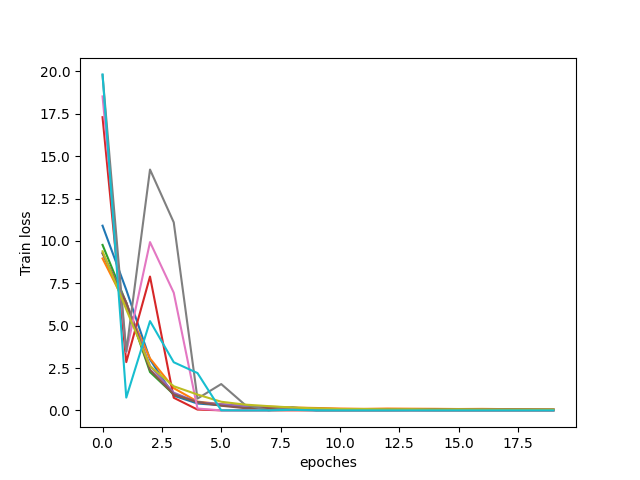
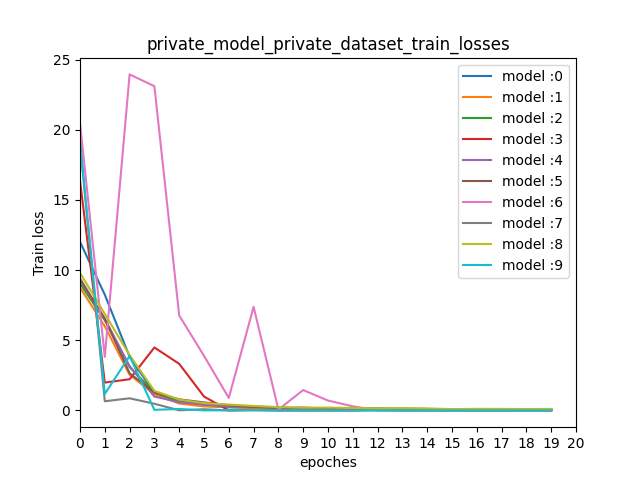
update

diff --git a/Collaborative_step.py b/Collaborative_step.py
@@ -3,6 +3,7 @@ from  collaborative_private_model_femnist_balanced import collaborative_private_
 from  collaborative_train_balanced_mnist import collaborative_private_model_mnist_train
 from collaborative_model_femnist_Accuracy import test_accuracy_collaborativemodel
 import matplotlib.pyplot as plt
+from matplotlib.pyplot import MultipleLocator #从pyplot导入MultipleLocator类，这个类用于设置刻度间隔
 
 def transpose( matrix):
     new_matrix = []
@@ -23,12 +24,19 @@ if __name__ == '__main__':
         collaborative_private_model_mnist_train(args)
         collaborative_private_model_femnist_train(args)
         accuracy.append(eachround_accuracy)
-    accuracy = transpose(transpose)
+    accuracy = transpose(accuracy)
+
     for i, val in enumerate(accuracy):
         print(val)
-        plt.plot(range(len(val)), val)
+        plt.plot(range(len(val)), val,label='model :'+str(i))
+    plt.legend(loc='best')
+    plt.title('communication_round_with_accuracy_on_femnist')
     plt.xlabel('Communication roudn')
     plt.ylabel('Accuracy on FEMNIST')
+    x_major_locator = MultipleLocator(1)# 把x轴的刻度间隔设置为1，并存在变量里
+    ax = plt.gca()# ax为两条坐标轴的实例
+    ax.xaxis.set_major_locator(x_major_locator)# 把x轴的主刻度设置为1的倍数
+    plt.xlim(0, args.Communicationepoch)
     plt.savefig('Src/Figure/communication_round_with_accuracy_on_femnist.png')
     plt.show()
     print('End Private Training')

diff --git a/collaborative_private_model_femnist_balanced.py b/collaborative_private_model_femnist_balanced.py
@@ -46,6 +46,9 @@ def collaborative_private_model_femnist_train(args):
     modelsindex = ["2_layer_CNN", "3_layer_CNN"]
     model_list, model_type_list = get_model_list(args.Collaborativeurl, modelsindex, models)
 
+
+    print('Begin Private Training')
+
     private_model_private_dataset_train_losses = []
     for n, model in enumerate(model_list):
         print('train Local Model {} on Private Dataset'.format(n))
@@ -60,8 +63,7 @@ def collaborative_private_model_femnist_train(args):
         trainloader = DataLoader(DatasetSplit(train_dataset, list(user_groups[n])), batch_size=64, shuffle=True)
         criterion = nn.NLLLoss().to(device)
         train_epoch_losses = []
-        print('Begin Private Training')
-        for epoch in range(args.epoch):
+        for epoch in range(args.Communication_private_epoch):
             train_batch_losses = []
             for batch_idx, (images, labels) in enumerate(trainloader):
                 images, labels = images.to(device), labels.to(device)
@@ -84,6 +86,7 @@ def collaborative_private_model_femnist_train(args):
     for i, val in enumerate(private_model_private_dataset_train_losses):
         print(val)
         plt.plot(range(len(val)), val)
+    plt.title('collaborative_private_model_private_dataset_train_losses')
     plt.xlabel('epoches')
     plt.ylabel('Train loss')
     plt.savefig('Src/Figure/collaborative_private_model_private_dataset_train_losses.png')

diff --git a/data_utils.py b/data_utils.py
@@ -132,15 +132,33 @@ def get_private_dataset_balanced(args):
     return  data_train,data_test
 
 import  numpy as np
+import os
+from option import args_parser
+
+
 
 def FEMNIST_iid(dataset,num_users):
-    num_item = int(len(dataset)/num_users)
-    num_item = 20 # 用于达到作者目的！
-    dict_users, all_idxs = {},[i for i in range(len(dataset))]
-    for i in range(num_users):
-        dict_users[i] = set(np.random.choice(all_idxs,num_item,replace=False))
-        all_idxs = list(set(all_idxs)-dict_users[i])
-    return dict_users
+    args = args_parser()
+    if os.path.exists(args.private_dataset_index):
+        print('private_dataset_index exist ~ ')
+        f  = open(args.private_dataset_index,'r')
+        temp = f.read()
+        dict_users =eval(temp)
+        return dict_users
+    else:
+        print('create private_dataset_index ~ ')
+        num_item = int(len(dataset) / num_users)
+        num_item = 20  # 用于达到作者目的！
+        dict_users, all_idxs = {}, [i for i in range(len(dataset))]
+        for i in range(num_users):
+            dict_users[i] = set(np.random.choice(all_idxs, num_item, replace=False))
+            all_idxs = list(set(all_idxs) - dict_users[i])
+        f = open(args.private_dataset_index,'w')
+        f.write(str(dict_users))
+        f.close()
+        return dict_users
+
+
 
 def MNIST_random(dataset,epochs):
     num_item = 5000

diff --git a/option.py b/option.py
@@ -16,6 +16,9 @@ def args_parser():
     parser.add_argument('--initialurl',type=str,default='Src\Model',help='initial url for saving initial models')
     parser.add_argument('--continue_epoch',type=int,default=10,help='epoch for continuing traning on pretrained model on mnist')
 
+    # data_utils
+    parser.add_argument('--private_dataset_index',type=str,default='Src/private_dataset_index.txt',help='in order to fix the private dataset,beacuse each client has only a few of dataset')
+
     # private_model_femnist_balanced
     parser.add_argument('--privateepoch',type=int,default=20,help='training epoch')
     parser.add_argument('--private_dataset',type=str,default='FEMNIST',help='private dataset for each client')
@@ -28,10 +31,11 @@ def args_parser():
     parser.add_argument('--collaborative_epoch',type=int,default=3,help='collaborative_epoch for train on public mnist')
 
     # Collaborative_step
-    parser.add_argument('--Communicationepoch',type=int,default=3,help='Collaorative epoch in Step3')
+    parser.add_argument('--Communicationepoch',type=int,default=10,help='Collaobrative epoch in Step3')
 
+    # collaborative_private_model_femnist_balanced
+    parser.add_argument('--Communication_private_epoch',type=int,default=10,help='Local private training during colaboratiive time')
 
     args = parser.parse_args()
-
 
     return args

diff --git a/collaborative_train_balanced_mnist.py b/collaborative_train_balanced_mnist.py
@@ -5,21 +5,7 @@ import torch
 from torch.utils.data import DataLoader,Dataset
 from torch import nn
 import matplotlib.pyplot as plt
-
-
-def get_model_list(url,modelsindex,models):
-    model_list = []
-    model_type_list = []
-    filePath = url
-    for root, dirs, files in os.walk(filePath, topdown=False):
-        for name in files:
-            # print(os.path.join(root, name))
-            # print(name[name.find('Type')+4])
-            model_type_list.append(int(name[name.find('Type')+4]))
-            net = models[modelsindex[int(name[name.find('Type')+4])]]()
-            net.load_state_dict(torch.load(os.path.join(root, name)))
-            model_list.append(net)
-    return model_list,model_type_list
+from utils import get_model_list
 
 class DatasetSplit(Dataset):
     """
@@ -108,6 +94,7 @@ def collaborative_private_model_mnist_train(args):
     plt.figure()
     for index in range(len(train_loss)):
         plt.plot(range(len(train_loss[index])), train_loss[index])
+    plt.title('collaborative_train_losses')
     plt.xlabel('epoches')
     plt.ylabel('Train loss')
     plt.savefig('Src/Figure/collaborative_train_losses.png')

diff --git a/private_model_femnist_balanced.py b/private_model_femnist_balanced.py
@@ -6,6 +6,7 @@ from torch.utils.data import DataLoader,Dataset
 from torch import nn
 import matplotlib.pyplot as plt
 from utils import get_model_list
+from matplotlib.pyplot import MultipleLocator #从pyplot导入MultipleLocator类，这个类用于设置刻度间隔
 
 class DatasetSplit(Dataset):
     """
@@ -73,9 +74,15 @@ def private_dataset_train(args):
     plt.figure()
     for i,val in enumerate(private_model_private_dataset_train_losses):
         print(val)
-        plt.plot(range(len(val)),val)
+        plt.plot(range(len(val)),val,label='model :'+str(i))
+    plt.legend(loc='best')
+    plt.title('private_model_private_dataset_train_losses')
     plt.xlabel('epoches')
     plt.ylabel('Train loss')
+    x_major_locator = MultipleLocator(1)# 把x轴的刻度间隔设置为1，并存在变量里
+    ax = plt.gca()# ax为两条坐标轴的实例
+    ax.xaxis.set_major_locator(x_major_locator)# 把x轴的主刻度设置为1的倍数
+    plt.xlim(0, args.privateepoch)
     plt.savefig('Src/Figure/private_model_private_dataset_train_losses.png')
     plt.show()
     print('End Private Training')

diff --git a/demo.py b/demo.py
@@ -187,15 +187,25 @@ import matplotlib.pyplot as plt
 
 # 列出重命名后的目录
 
-def transpose( matrix):
-    new_matrix = []
-    for i in range(len(matrix[0])):
-        matrix1 = []
-        for j in range(len(matrix)):
-            matrix1.append(matrix[j][i])
-        new_matrix.append(matrix1)
-    return new_matrix
+# def transpose( matrix):
+#     new_matrix = []
+#     for i in range(len(matrix[0])):
+#         matrix1 = []
+#         for j in range(len(matrix)):
+#             matrix1.append(matrix[j][i])
+#         new_matrix.append(matrix1)
+#     return new_matrix
+#
+# marix=[[1,1,1,1],[2,2,2,2],[3,3,3,3]]
+# print(marix)
+# print(transpose(marix)
+#
+# )
 
-marix=[[1,1,1,1],[2,2,2,2],[3,3,3,3]]
-print(marix)
-print(transpose(marix))
+from  data_utils import  get_private_dataset_balanced,FEMNIST_iid
+
+from option import args_parser
+if __name__ == '__main__':
+    args = args_parser()
+    train_dataset, test_dataset = get_private_dataset_balanced(args)
+    user_groups = FEMNIST_iid(train_dataset, args.user_number)

diff --git a/README.md b/README.md
@@ -216,3 +216,78 @@ end
 |8| 0.8822916666666667|
 |9| 0.9177083333333333|
 
+
+### collaborative_train_balanced_mnist.py
+|  Parametes   | default value  | Options| Explanation
+|  ----  | ----  |----  |----  |
+| gpu  | 1 |0，1 |choose to use GPU or CPU |
+| dataset  | 'mnist' |'mnist' |name of dataset |
+| private_dataset  | 'FEMNIST' |'FEMNIST' |name of private dataset |
+| Collaborativeurl  | 'Src\CollaborativeModel' |String  |place to save the Collaborative model |
+| privateurl  | 'Src\PrivateModel' |String  |place to save the private model which means continue train....... |
+|new_collaborative_training|True|True,False|whether train model from initial condition|
+| collaborative_epoch  | 5 |int number |number of epoch to collaborative train on Public|
+| lr  | 0.01 |float number |learning rate |
+| optimizer  | 'sgd' |'sgd','adam'|type of optimizer |
+
+
+|  Class name   | Explanation
+|  ---- |----  |
+| DatasetSplit  |用于切割FEMNIST根据对应的索引|
+
+
+|  Function name   | Input Parameters  | Output Parameters| Explanation
+|  ----  | ----  |----  |----  |
+|collaborative_private_model_femnist_train|args|NULL|用于对各个私有模型在公有数据集上一期合作训练|
+
+![collaborative_train_losses](Src/Figure/collaborative_train_losses.png)
+### collaborative_private_model_femnist_balanced.py
+用于继续训练各个local的私有模型在各自的私有FEMNIST数据集上--Collaborative Training phase
+|  Parametes   | default value  | Options| Explanation
+|  ----  | ----  |----  |----  |
+| gpu  | 1 |0，1 |choose to use GPU or CPU |
+| dataset  | 'mnist' |'mnist' |name of dataset |
+| private_dataset  | 'FEMNIST' |'FEMNIST' |name of private dataset |
+| Collaborativeurl  | 'Src\CollaborativeModel' |String  |place to save the Collaborative model |
+| Communication_private_epoch  | 10 |int number |Local private training during colaboratiive time |
+| lr  | 0.01 |float number |learning rate |
+| optimizer  | 'sgd' |'sgd','adam'|type of optimizer |
+
+
+|  Class name   | Explanation
+|  ---- |----  |
+| DatasetSplit  |用于切割FEMNIST根据对应的索引|
+
+
+|  Function name   | Input Parameters  | Output Parameters| Explanation
+|  ----  | ----  |----  |----  |
+|collaborative_private_model_femnist_train|args|NULL|用于对各个私有模型在各自的私有数据集上进行训练|
+
+
+
+![collaborative_private_model_private_dataset_train_losses](Src/Figure/collaborative_private_model_private_dataset_train_losses.png)
+
+### private_model_femnist_Accuracy.py
+用于检测在各自私有数据集上是否收敛
+|  Parametes   | default value  | Options| Explanation
+|  ----  | ----  |----  |----  |
+| gpu  | 1 |0，1 |choose to use GPU or CPU |
+| dataset  | 'mnist' |'mnist' |name of dataset |
+| Collaborativeurl  | 'Src\CollaborativeModel' |String  |place to save the Collaborative model |
+
+|  Function name   | Input Parameters  | Output Parameters| Explanation
+|  ----  | ----  |----  |----  |
+| test_accuracy_collaborativemodel  |args |accuracy_list |用于检测合作训练的模型是否准确度ok|
+
+### Collaborative_step.py
+用于模拟交流过程
+|  Parametes   | default value  | Options| Explanation
+|  ----  | ----  |----  |----  |
+| Communicationepoch  | 10 |int  |Collaobrative epoch in Step3|
+
+|  Function name   | Input Parameters  | Output Parameters| Explanation
+|  ----  | ----  |----  |----  |
+| transpose  |matrix |matrix |用于旋转矩阵 便于绘图|
+
+
+![communication_round_with_accuracy_on_femnist](Src/Figure/communication_round_with_accuracy_on_femnist.png)
